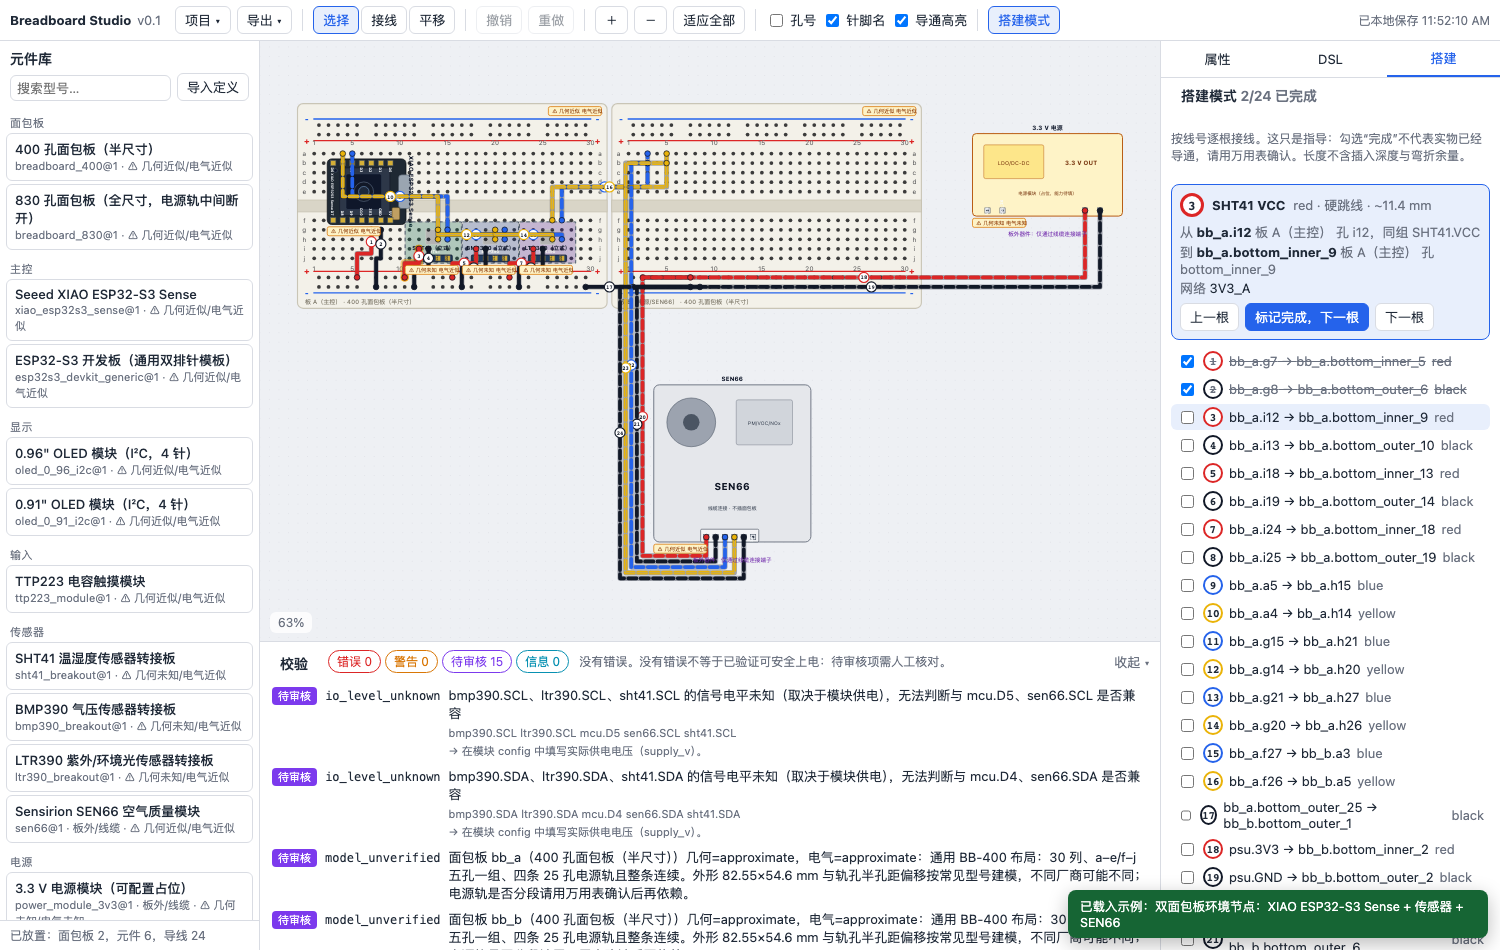
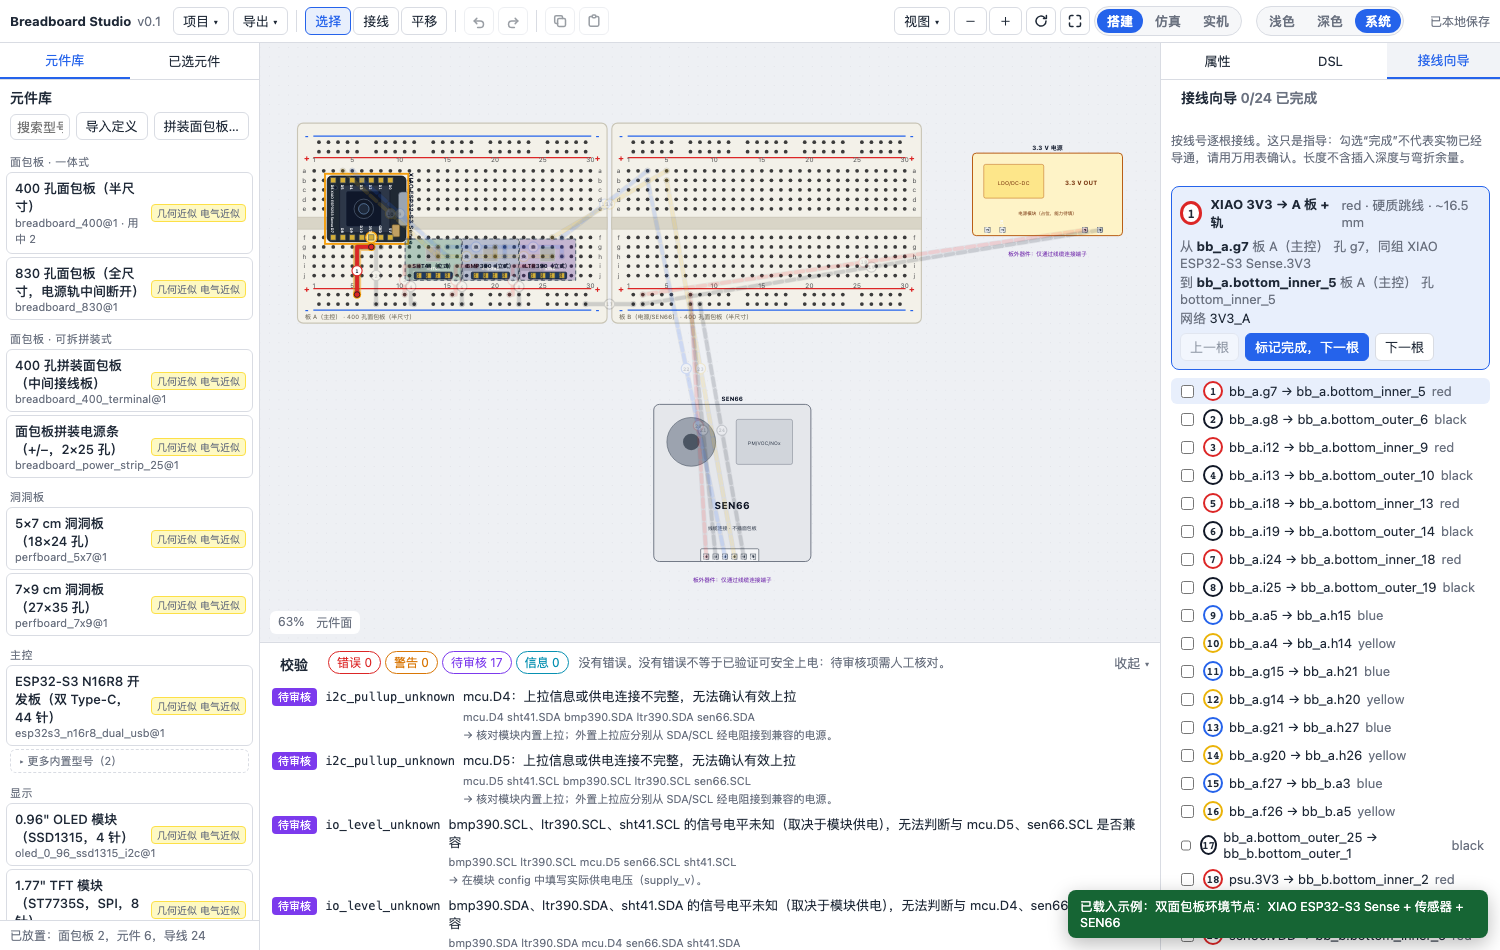
fix: 处理 #38 审查发现的缺陷（#37）
独立审查结论 APPROVE WITH NITS（无 blocking），但其中几条是真缺陷，合并前修掉：

- **接线工具切走再切回，接线选项 popover 会自己冒出来**：`menu` 状态残留，
  组件卸载后 `open={menu==='wire'}` 仍为真。加了「离开 wire 就清 menu」的 effect，
  并补回归测试（关掉修复后该测试会红）。
- **Escape 被全局吞掉**：原来只要有 popover 打开就无条件 `stopPropagation`，
  把代码编辑器/外观编辑器/元件库详情自己的 Esc 一起吃掉。现在只在事件来自
  popover 子树（或焦点在它内部）时才拦；补测试钉住两种语义。
- **两处 min-width 是死规则**：`.view-popover{216}` / `.wire-options-popover{238}`
  被后面的 `.menu{min-width:260}` 覆盖（同权重、源序在后），实测 computed 都是 260。
  删掉这两条，接受 .menu 的宽度。
- 另外删掉本 PR 弄死的 CSS：`.wire-color-label`、`.tool-group.wire-opts`。
- 下拉框 `width:100% + 左右 8px margin` 会比面板宽 1px：改 `calc(100% - 16px)`。
- 断点 1400 → 1480：1401 处只剩约 72px 余量，换个更宽的字库就会溢出；
  现在临界点右侧最坏约 150px。
- 色点兜底色与画布不一致（蓝 vs 红）：改用 render 导出的 `wireColor()` 同一个解析。
- `aria-haspopup="true"`（语义是 menu）配 `role="group"` 名不副实：去掉，改
  `aria-controls` + popover id；项目/导出两个下拉补 `aria-expanded`。
- 测试里两条断言不可能失败（`width<=1280` 恒真；`wrapped===[]` 被 nowrap 保证），
  删掉；把「控件被挤成 0 尺寸」改成对每个 `data-testid` 的显式断言（排除 hidden
  文件输入），布局循环扩到 1280/1500 × 选中/接线。色板测试补上「按钮色点=当前线色」。
- README 两张截图（9 月 5 日版）与新应用栏/新元件库对不上：用同一份示例重新生成。
- 修掉 Toolbar 里那句说工具栏不随 `showHoleLabels` 重渲染的错注释。

验证：typecheck ✅ · 594 单测 ✅ · 96 e2e ✅（新增 2 条回归）· build ✅ · check:dist ✅。

diff --git a/e2e/view-controls.spec.ts b/e2e/view-controls.spec.ts
@@ -65,11 +65,14 @@ test('named and custom wire colors are saved through the editor and undo', async
   const picker = page.getByTestId('wire-color');
   await expect(picker.locator('button')).toHaveCount(12);
   await picker.locator('[data-color="cyan"]').click();
+  // 按钮上的色点就是当前线色（和画布用同一个解析函数）。
+  await expect(page.getByTestId('wire-options-swatch')).toHaveCSS('background-color', 'rgb(6, 182, 212)');
   await clickHole(page, 'bb_1.a1'); await clickHole(page, 'bb_1.a2');
   const colors = () => page.evaluate(() => (window as any).__bbs.getDesign().wires.map((w: any) => w.color));
   expect(await colors()).toEqual(['cyan']);
   await openWireOptions(page);
   await page.getByTestId('wire-color-custom').fill('#123456');
+  await expect(page.getByTestId('wire-options-swatch')).toHaveCSS('background-color', 'rgb(18, 52, 86)');
   await clickHole(page, 'bb_1.a3'); await clickHole(page, 'bb_1.a4');
   expect(await colors()).toEqual(['cyan', '#123456']);
   await page.getByTestId('undo').click();
@@ -81,55 +84,55 @@ test('named and custom wire colors are saved through the editor and undo', async
  * 显示类开关全部收进「视图」popover，主栏不再出现复选框。
  */
 test.describe('应用栏信息架构（issue #37）', () => {
-  test('1280px 宽下单行放下、留有余量，视图开关不在主栏里（选中与接线两种工具态）', async ({ page }) => {
+  test('应用栏在 1280 与 1500 宽下单行放下、留有余量（选中与接线两种工具态）', async ({ page }) => {
+    const bar = page.locator('.toolbar');
+
+    for (const width of [1280, 1500] as const) {
+      await page.setViewportSize({ width, height: 900 });
+      await fresh(page);
+      // 两种工具态都量一遍：接线工具会多出上下文控件，最先在这里溢出。
+      for (const tool of ['select', 'wire'] as const) {
+        if (tool === 'wire') await page.getByTestId('tool-wire').click();
+        const layout = await bar.evaluate((el) => {
+          const cs = getComputedStyle(el);
+          const r = el.getBoundingClientRect();
+          // 隐藏的元素（窄窗口下收起的字标）尺寸为 0，不参与几何断言；但**控件**不许是 0——
+          // 被挤成 0 宽正是 flex-shrink 规则要防的静默事故，所以单独断言（见 visibleIds）。
+          const controls = [...el.querySelectorAll('.zone button, .zone select, .brand, .storage')].filter(
+            (c) => !c.closest('.menu') && c.getBoundingClientRect().width > 0
+          );
+          const boxes = controls.map((c) => c.getBoundingClientRect());
+          return {
+            contentRight: Math.round(r.right - parseFloat(cs.paddingRight) - parseFloat(cs.borderRightWidth)),
+            worstRight: Math.round(Math.max(...boxes.map((b) => b.right))),
+            centerSpread: Math.max(...boxes.map((b) => Math.round(b.top + b.height / 2))) - Math.min(...boxes.map((b) => Math.round(b.top + b.height / 2))),
+            // 被压窄到内容放不下：nowrap 之后收缩会表现为标签被静默裁掉。
+            clipped: controls
+              .filter((c) => c.scrollWidth > c.clientWidth + 1)
+              .map((c) => ({ text: (c.textContent ?? '').trim().slice(0, 10), scrollWidth: c.scrollWidth, clientWidth: c.clientWidth })),
+            slack: Math.round(el.querySelector('.spacer')!.getBoundingClientRect().width),
+            // 每个控件钩子都必须有实际尺寸（import-input 是 hidden 的文件输入，按设计是 0）。
+            collapsedIds: [...el.querySelectorAll('.zone [data-testid]')]
+              .filter((c) => c.getAttribute('data-testid') !== 'import-input')
+              .filter((c) => c.getBoundingClientRect().width < 1 || c.getBoundingClientRect().height < 1)
+              .map((c) => c.getAttribute('data-testid'))
+          };
+        });
+
+        const where = `${width}px/${tool}`;
+        expect(layout.worstRight, `${where}：最右侧控件越过了内容区（右缘 ${layout.contentRight}）`).toBeLessThanOrEqual(layout.contentRight + 1);
+        expect(layout.centerSpread, `${where}：应用栏应当只有一行，不该换行`).toBeLessThanOrEqual(2);
+        expect(layout.clipped, `${where}：这些控件被压窄到内容放不下：${JSON.stringify(layout.clipped)}`).toEqual([]);
+        expect(layout.collapsedIds, `${where}：这些控件被挤成了 0 尺寸：${JSON.stringify(layout.collapsedIds)}`).toEqual([]);
+        expect(layout.slack, `${where}：应用栏没有余量了，再加一个控件就会溢出`).toBeGreaterThan(0);
+      }
+    }
+
     await page.setViewportSize({ width: 1280, height: 900 });
     await fresh(page);
-
-    const bar = page.locator('.toolbar');
-    // 两种工具态都量一遍：接线工具会多出上下文控件，1280 下最先在这里溢出。
-    for (const tool of ['select', 'wire'] as const) {
-      if (tool === 'wire') await page.getByTestId('tool-wire').click();
-      const layout = await bar.evaluate((el) => {
-        const cs = getComputedStyle(el);
-        const r = el.getBoundingClientRect();
-        // 隐藏的元素（1280 下收起的字标）尺寸为 0，不参与几何断言。
-        const controls = [...el.querySelectorAll('.zone button, .zone select, .brand, .storage')].filter(
-          (c) => !c.closest('.menu') && c.getBoundingClientRect().width > 0 && c.getBoundingClientRect().height > 0
-        );
-        const boxes = controls.map((c) => c.getBoundingClientRect());
-        const lineHeight = (c: Element) => {
-          const s = getComputedStyle(c);
-          return parseFloat(s.lineHeight) || parseFloat(s.fontSize) * 1.2;
-        };
-        return {
-          width: Math.round(r.width),
-          contentRight: Math.round(r.right - parseFloat(cs.paddingRight) - parseFloat(cs.borderRightWidth)),
-          worstRight: Math.round(Math.max(...boxes.map((b) => b.right))),
-          centerSpread: Math.max(...boxes.map((b) => Math.round(b.top + b.height / 2))) - Math.min(...boxes.map((b) => Math.round(b.top + b.height / 2))),
-          // 文字折行：按「内容高度 / 行高」数行数，不依赖具体字体度量（图标按钮没有文字，跳过）。
-          wrapped: controls
-            .filter((c) => (c.textContent ?? '').trim().length > 0)
-            .map((c) => {
-              const s = getComputedStyle(c);
-              const inner = c.getBoundingClientRect().height - parseFloat(s.paddingTop) - parseFloat(s.paddingBottom) - parseFloat(s.borderTopWidth) - parseFloat(s.borderBottomWidth);
-              return { text: (c.textContent ?? '').trim().slice(0, 8), lines: Math.round(inner / lineHeight(c)) };
-            })
-            .filter((x) => x.lines > 1),
-          // 被压窄到内容放不下：nowrap 之后收缩会表现为标签被静默裁掉。
-          clipped: controls
-            .filter((c) => c.scrollWidth > c.clientWidth + 1)
-            .map((c) => ({ text: (c.textContent ?? '').trim().slice(0, 10), scrollWidth: c.scrollWidth, clientWidth: c.clientWidth })),
-          slack: Math.round(el.querySelector('.spacer')!.getBoundingClientRect().width)
-        };
-      });
-
-      expect(layout.width, `${tool}：应用栏不该超出视口宽度`).toBeLessThanOrEqual(1280);
-      expect(layout.worstRight, `${tool}：最右侧控件越过了内容区（右缘 ${layout.contentRight}）`).toBeLessThanOrEqual(layout.contentRight + 1);
-      expect(layout.centerSpread, `${tool}：应用栏应当只有一行，不该换行`).toBeLessThanOrEqual(2);
-      expect(layout.wrapped, `${tool}：这些控件里的文字折行了：${JSON.stringify(layout.wrapped)}`).toEqual([]);
-      expect(layout.clipped, `${tool}：这些控件被压窄到内容放不下：${JSON.stringify(layout.clipped)}`).toEqual([]);
-      expect(layout.slack, `${tool}：应用栏没有余量了，再加一个控件就会溢出`).toBeGreaterThan(0);
-    }
+    const bar1280 = page.locator('.toolbar');
+    // 窄窗口收起字标是**唯一**允许变 0 的东西，这里明确钉住它。
+    expect(await bar1280.evaluate((el) => getComputedStyle(el.querySelector('.brand')!).display)).toBe('none');
 
     // 主栏里一个复选框都没有；显示开关只存在于 popover 打开时。
     await expect(page.locator('.toolbar input[type="checkbox"]')).toHaveCount(0);
@@ -161,6 +164,29 @@ test.describe('应用栏信息架构（issue #37）', () => {
     await expect(pop).toBeVisible();
     await page.getByTestId('canvas').click({ position: { x: 600, y: 300 } });
     await expect(pop).toHaveCount(0);
+  });
+
+  test('popover 不吞掉别处的 Esc：焦点不在它身上时，Esc 照常往下传', async ({ page }) => {
+    await fresh(page);
+    await addFromLibrary(page, 'breadboard_400'); // 添加即选中 bb_1
+    await openViewMenu(page);
+    // 把焦点移出 popover（activeElement 变成 body），模拟「面板开着但我在别处按 Esc」。
+    await page.evaluate(() => (document.activeElement as HTMLElement | null)?.blur());
+    await page.keyboard.press('Escape');
+    await expect(page.locator('.view-popover')).toHaveCount(0);
+    expect((await state(page)).selectedIds, 'Esc 没被吞掉，App 的清空选中照常发生').toEqual([]);
+  });
+
+  test('接线工具切走再切回，接线选项不会自己冒出来', async ({ page }) => {
+    await fresh(page);
+    await page.getByTestId('tool-wire').click();
+    await openWireOptions(page);
+    // 用快捷键切走再切回：popover 曾经因为 menu 状态残留而"自己打开"。
+    await page.keyboard.press('v');
+    await expect(page.locator('.wire-options-popover')).toHaveCount(0);
+    await page.keyboard.press('w');
+    await expect(page.getByTestId('wire-options')).toBeVisible();
+    await expect(page.locator('.wire-options-popover'), '切回接线工具不该让面板自己打开').toHaveCount(0);
   });
 
   test('每个视图开关切换后画布真的变了', async ({ page }) => {

diff --git a/apps/web/src/components/Toolbar.tsx b/apps/web/src/components/Toolbar.tsx
@@ -4,7 +4,7 @@ import { useSimulatorStore } from '../simulator/simulatorStore';
 import { exportJsonFile, exportPngFile, exportSvgFile } from '../exporters';
 import { SimulatorToolbar } from '../simulator/ui/SimulatorToolbar';
 import { WireColorPicker } from './WireColorPicker';
-import { WIRE_COLORS } from '@breadboard-studio/render';
+import { wireColor as resolveWireColor } from '@breadboard-studio/render';
 import { CopyIcon, FitIcon, PasteIcon, RedoIcon, RotateIcon, UndoIcon } from './icons';
 import { useTheme, type ThemePreference } from '../theme';
 
@@ -148,20 +148,25 @@ function canvasApi(): CanvasApi | undefined {
 }
 
 /**
- * Outside-click + Esc dismissal for a toolbar popover. The Esc handler runs in
- * the capture phase so closing a popover does not also clear the canvas selection
- * (App's window-level handler never sees the event).
+ * Outside-click + Esc dismissal for a toolbar popover.
+ *
+ * Esc is stopped in the capture phase **only when the popover owns the focus or
+ * the event came from inside it** — that is what keeps Esc from clearing the
+ * canvas selection while the popover is the thing being dismissed. It must not
+ * swallow Esc app-wide: the code editor, artwork editor and library detail all
+ * handle Esc themselves.
  */
 function useDismissablePopover(open: boolean, onClose: () => void) {
   const ref = useRef<HTMLDivElement>(null);
   useEffect(() => {
     if (!open) return;
+    const owns = (node: Node | null) => Boolean(node && ref.current?.contains(node));
     const onPointerDown = (e: PointerEvent) => {
       if (ref.current && !ref.current.contains(e.target as Node)) onClose();
     };
     const onKeyDown = (e: KeyboardEvent) => {
       if (e.key !== 'Escape') return;
-      e.stopPropagation();
+      if (owns(e.target as Node | null) || owns(document.activeElement)) e.stopPropagation();
       onClose();
     };
     document.addEventListener('pointerdown', onPointerDown, true);
@@ -192,15 +197,15 @@ function ViewMenu({ open, onToggle, onClose }: { open: boolean; onToggle: () => 
       <button
         className={open ? 'active' : ''}
         onClick={onToggle}
-        aria-haspopup="true"
         aria-expanded={open}
+        aria-controls="view-popover"
         title="视图：画布上显示哪些辅助信息（不改设计数据）"
         data-testid="view-menu"
       >
         视图 ▾
       </button>
       {open && (
-        <div className="menu view-popover" role="group" aria-label="视图">
+        <div className="menu view-popover" id="view-popover" role="group" aria-label="视图">
           <div className="menu-label">显示</div>
           <label className="view-row" title="在每个孔旁边标出孔号">
             <input type="checkbox" checked={showHoleLabels} onChange={st.toggleHoleLabels} data-testid="toggle-hole-labels" />孔号
@@ -232,18 +237,19 @@ function ViewMenu({ open, onToggle, onClose }: { open: boolean; onToggle: () => 
  * one click away, with the current colour shown on the button itself.
  */
 function WireOptionsMenu({ open, onToggle, onClose }: { open: boolean; onToggle: () => void; onClose: () => void }) {
-  const wireColor = useStore((s) => s.wireColor);
+  const colour = useStore((s) => s.wireColor);
   const wireRoute = useStore((s) => s.wireRoute);
   const st = useStore.getState();
   const ref = useDismissablePopover(open, onClose);
-  const hex = wireColor.startsWith('#') ? wireColor : (WIRE_COLORS[wireColor] ?? '#2563eb');
+  // 同一个解析函数，画布画什么色按钮就显示什么色（含未知名字的兜底色）。
+  const hex = resolveWireColor(colour);
   return (
     <div className="menu-wrap" ref={ref}>
       <button
         className={open ? 'active' : ''}
         onClick={onToggle}
-        aria-haspopup="true"
         aria-expanded={open}
+        aria-controls="wire-options-popover"
         title="接线选项：导线颜色与走线方式"
         data-testid="wire-options"
       >
@@ -251,9 +257,9 @@ function WireOptionsMenu({ open, onToggle, onClose }: { open: boolean; onToggle:
         接线选项 ▾
       </button>
       {open && (
-        <div className="menu wire-options-popover" role="group" aria-label="接线选项">
+        <div className="menu wire-options-popover" id="wire-options-popover" role="group" aria-label="接线选项">
           <div className="menu-label">导线颜色</div>
-          <WireColorPicker value={wireColor} onChange={st.setWireColor} testId="wire-color" />
+          <WireColorPicker value={colour} onChange={st.setWireColor} testId="wire-color" />
           <div className="menu-sep" />
           <div className="menu-label">走线方式</div>
           <select value={wireRoute} onChange={(e) => st.setWireRoute(e.target.value as 'flat' | 'elevated')} data-testid="wire-route">
@@ -272,8 +278,8 @@ export function Toolbar() {
   const past = useStore((s) => s.past.length);
   const future = useStore((s) => s.future.length);
   const showHoleLabels = useStore((s) => s.showHoleLabels);
-  // 针脚名 / 导通高亮 / 聚焦选中 由 ViewMenu 订阅，线色与走线方式由 WireOptionsMenu 订阅：
-  // 它们都只在那一个 popover 里用到，工具栏本体不必跟着重渲染。
+  // 针脚名 / 导通高亮 / 聚焦选中 由 ViewMenu 订阅，线色与走线方式由 WireOptionsMenu 订阅。
+  // 工具栏本体只剩 showHoleLabels（导出 SVG/PNG 要用）——所以勾「孔号」时它确实会重渲染。
   const storage = useStore((s) => s.storage);
   const mode = useStore((s) => s.mode);
   const selectedCount = useStore((s) => s.selectedIds.length);
@@ -282,6 +288,11 @@ export function Toolbar() {
   const st = useStore.getState();
   const [menu, setMenu] = useState<null | 'project' | 'export' | 'view' | 'wire'>(null);
   const fileRef = useRef<HTMLInputElement>(null);
+
+  // 离开接线工具就关掉它的 popover：否则「开面板 → 按 v → 按 w」会让面板在没点过的情况下自己出现。
+  useEffect(() => {
+    if (tool !== 'wire') setMenu((m) => (m === 'wire' ? null : m));
+  }, [tool]);
 
   const onImportFile = async (f: File | undefined) => {
     if (!f) return;
@@ -308,7 +319,7 @@ export function Toolbar() {
           <span className="muted">v0.1</span>
         </div>
         <div className="menu-wrap">
-          <button className={menu === 'project' ? 'active' : ''} onClick={() => setMenu(menu === 'project' ? null : 'project')} data-testid="menu-project">
+          <button className={menu === 'project' ? 'active' : ''} aria-expanded={menu === 'project'} onClick={() => setMenu(menu === 'project' ? null : 'project')} data-testid="menu-project">
             项目 ▾
           </button>
           {menu === 'project' && (
@@ -329,7 +340,7 @@ export function Toolbar() {
           <input ref={fileRef} type="file" accept=".json,application/json" hidden data-testid="import-input" onChange={(e) => { void onImportFile(e.target.files?.[0]); e.target.value = ''; }} />
         </div>
         <div className="menu-wrap">
-          <button className={menu === 'export' ? 'active' : ''} onClick={() => setMenu(menu === 'export' ? null : 'export')} data-testid="menu-export">
+          <button className={menu === 'export' ? 'active' : ''} aria-expanded={menu === 'export'} onClick={() => setMenu(menu === 'export' ? null : 'export')} data-testid="menu-export">
             导出 ▾
           </button>
           {menu === 'export' && (

diff --git a/apps/web/src/styles.css b/apps/web/src/styles.css
@@ -125,45 +125,43 @@ a { color: var(--accent); }
 
 .app { height: 100%; display: flex; flex-direction: column; }
 /* 应用栏三个稳定区（issue #37）：应用级 · 编辑上下文 · 视图与状态。
-   这里刻意不换行——1280px 宽下必须单行放下（e2e 会断言不换行、不溢出），
-   所以低频动作都收成了图标按钮。
-   控件一律 flex-shrink: 0 + nowrap：宁可溢出（由 e2e 抓）也不要把「选择」压成两行。 */
+   刻意不换行：1280 / 1500 宽下必须单行放下并留有余量（e2e 断言这两种宽度 ×
+   选中 / 接线两种工具态的单行、不越界、不被裁、有余量）。
+   控件一律 flex-shrink: 0 + nowrap——宁可让整条栏溢出，也不把「选择」压成两行或
+   静默裁掉标签；窄于约 1165px 会退化成页面级横向滚动，这是有意的取舍
+   （桌面工具，不为了不滚动而牺牲标签可读性）。 */
 .toolbar { display: flex; align-items: center; gap: 4px; padding: 6px 10px; background: var(--panel); border-bottom: 1px solid var(--border); position: relative; z-index: 5; }
 .toolbar .zone { display: flex; align-items: center; gap: 4px; flex-shrink: 0; }
 .toolbar button, .toolbar select, .toolbar label, .toolbar .brand { white-space: nowrap; }
 /* 叶子控件也不许被压缩：文字是 nowrap，一旦允许收缩就会静默把「选择」裁掉一半。
    真放不下时应该整条溢出（e2e 的宽度/裁切断言会抓出来），而不是悄悄少几个字。 */
 .toolbar .zone button, .toolbar .zone select, .toolbar .zone label, .toolbar .tool-group button, .toolbar .menu-wrap > button, .toolbar .zoom-cluster button { flex-shrink: 0; }
-.toolbar > .zone, .toolbar > .menu-wrap, .toolbar .tool-group, .toolbar .zoom-cluster, .toolbar .menu-wrap { flex-shrink: 0; }
+.toolbar > .zone, .toolbar .tool-group, .toolbar .zoom-cluster, .toolbar .menu-wrap { flex-shrink: 0; }
 .icon-btn { display: inline-flex; align-items: center; justify-content: center; width: 30px; height: 28px; padding: 0; }
 .icon { display: block; }
 .zoom-cluster { display: inline-flex; align-items: center; gap: 2px; }
-.view-popover { min-width: 216px; }
 /* 带色板的「接线选项」按钮：色点与文字对齐；面板里色板独占一行，下拉占满宽 */
 .toolbar .menu-wrap > button { display: inline-flex; align-items: center; gap: 6px; }
-.wire-options-popover { min-width: 238px; }
 .wire-options-popover .wire-colors { padding: 2px 8px 6px; }
-.wire-options-popover select { width: 100%; margin: 0 8px 4px; }
-.wire-options-popover .wire-color-label { display: none; }
+.wire-options-popover select { width: calc(100% - 16px); margin: 0 8px 4px; }
 .view-row { display: flex; align-items: center; gap: 8px; padding: 5px 8px; border-radius: 5px; font-size: 12px; cursor: pointer; }
 .view-row:hover { background: var(--hover); }
 .view-row input { margin: 0; }
 .menu .view-action { width: 100%; border: none; background: transparent; color: var(--text); }
 .brand { display: flex; gap: 6px; align-items: baseline; margin-right: 8px; }
-/* 窄窗口收起字标（<=1400）：1280 下应用栏必须单行放下，省下的宽度留给工具与视图控件，
-   而不是靠压缩控件（压缩会静默裁标签）。应用名在标签页上仍然可见。 */
-@media (max-width: 1400px) {
+/* 窄窗口收起字标（<=1480）：应用栏必须单行放下，省下的宽度留给工具与视图控件，
+   而不是靠压缩控件（压缩会静默裁标签）。1480 是量出来的界：字标在临界点右侧最坏
+   只剩约 150px 余量，再窄一点换个更宽的字库就会溢出。应用名在标签页上仍然可见。 */
+@media (max-width: 1480px) {
   .toolbar .brand { display: none; }
 }
 .sep { width: 1px; height: 22px; background: var(--border); margin: 0 4px; }
 .spacer { flex: 1; }
 .tool-group { display: flex; gap: 2px; align-items: center; flex-shrink: 0; }
-.tool-group.wire-opts { gap: 6px; }
 .tool-group label { display: flex; gap: 4px; align-items: center; color: var(--muted); }
 .swatch { width: 14px; height: 14px; border-radius: 3px; border: 1px solid #0003; display: inline-block; }
 /* 线色色板：一排色点直接点选，末位是自定义取色器 */
 .wire-colors { display: inline-flex; align-items: center; gap: 4px; flex-wrap: wrap; }
-.wire-color-label { color: var(--muted); }
 .wire-color-dot {
   width: 18px; height: 18px; padding: 0; border-radius: 50%;
   border: 1px solid #0003; flex: none; cursor: pointer;
